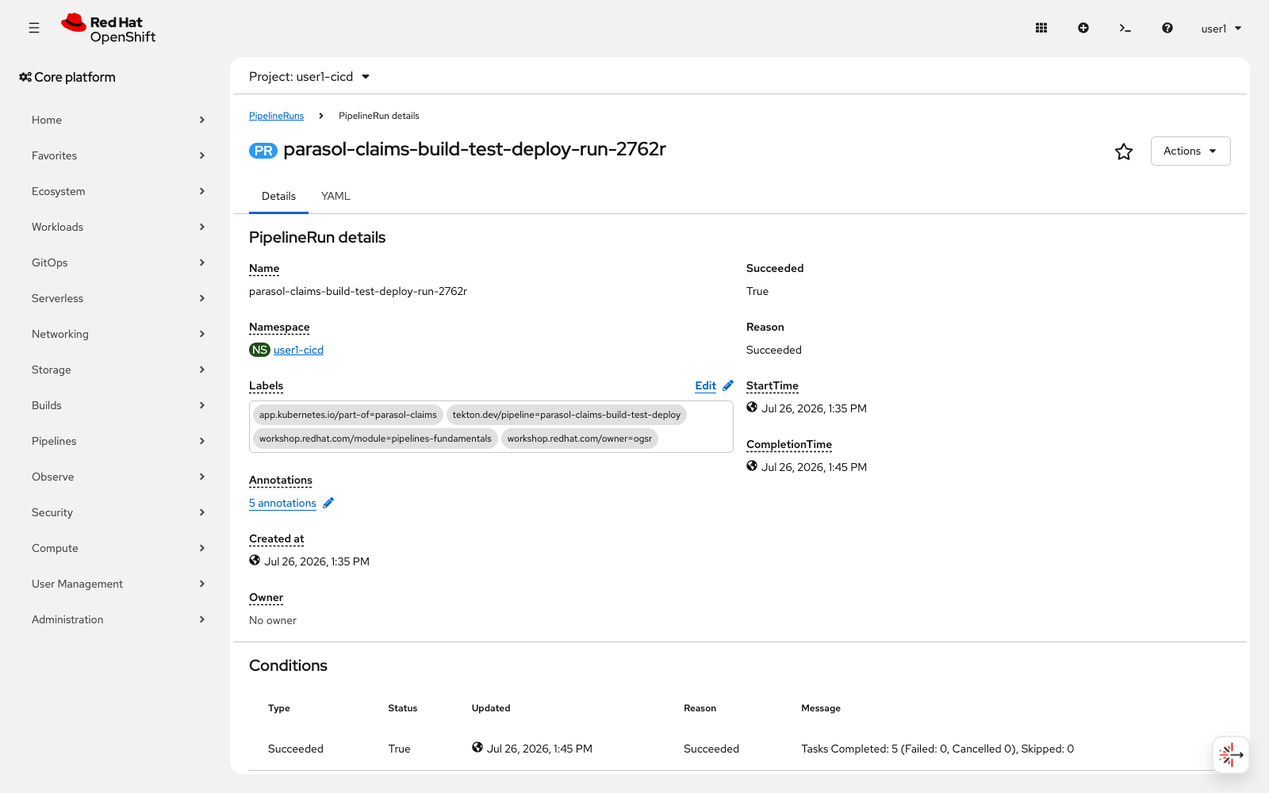
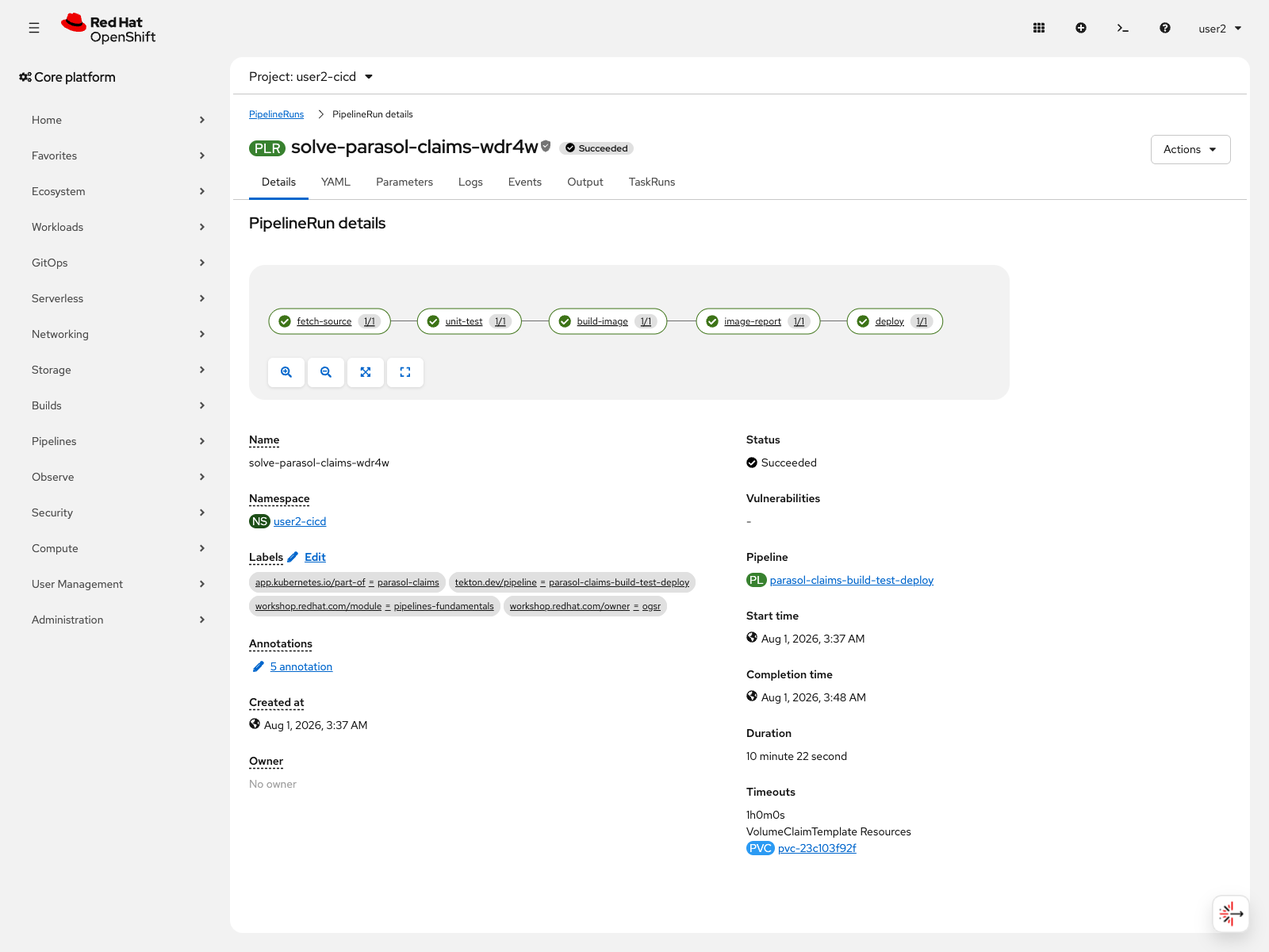
feat(m07,m17,m18,m15): nine more screenshots, embedded and rendering
m07 shot as user2 per the owner's call — user2-cicd already held a green five-Task PipelineRun, so
user1-cicd was left alone rather than rebuilt (it carries trusted-supply-chain, whose own marquee row
is still uncaptured; rebuilding would have destroyed an uncaptured subject to photograph a captured
one).

The rest are the m14-m19 console set, unblocked by the three logins the owner established this
morning: registry-images-catalog-governance 4, deployment-targets-scheduling 3, networking-dev-devops
2.

Verified in the BUILT SITE rather than the source, which is the only place the failure mode shows:
pipelines-fundamentals 5 img, registry-images-catalog-governance 4, deployment-targets-scheduling 3,
networking-dev-devops 2 — and every src resolves to a file that exists on disk. Antora exits 0.

The one page still emitting an image:: as literal text is agentic-ai, which is pre-existing and
belongs to another lane: line 149 uses a `+` list-continuation where a blank line is required, so the
macro source lands inside a <p> with no <img> at all and the build stays green. Its alt text is also
unquoted and comma-bearing, so it will truncate even once the continuation is fixed.

diff --git a/tools/media/capture_m17_pods_by_node.py b/tools/media/capture_m17_pods_by_node.py
@@ -1,0 +1,191 @@
+"""M17 (deployment-targets-scheduling) shot 01 — the Pods list WITH a Node column.
+
+WHY THIS EXISTS, and why it is not a row in jobs-m14-m19-console.yaml.
+
+The row was a job. It failed on 2026-08-01 with `never saw 'Node'`, against a namespace that was
+in exactly the right state — three `parasol-claims` replicas on three different nodes, proven from
+the API. The state was never the problem. **The console's Pods list has no Node column at all by
+default.** Grounded the same day at 1600x1100 as user7: the default columns are Name, Status,
+Ready, Restarts, Owner, Memory, CPU, Created — and nothing else. `deployment-targets-scheduling`'s
+own `[CAPTURE-VERIFY]` marker at lab.adoc:168/:176 had already suspected this; this run settles it.
+
+Adding the column is a three-step interaction — open *Column management*, tick **Node**, *Save* —
+and `capture.py` deliberately cannot express it: `click_text` clicks controls that HAVE text (the
+column-management control is an icon button), `check_text` ticks a checkbox but runs before any
+click could have opened the dialog it lives in, and there is no post-tick click at all. Rather than
+grow the generic harness a bespoke three-step sequencer for one shot, this follows the pattern the
+directory already established for interactions a jobs file cannot describe (see
+`capture_m12_sequence.py`, `capture_m11_canary.py`).
+
+The control is addressed by `button[data-test="manage-columns"]` (aria-label "Column management"),
+enumerated from the live DOM on 2026-08-01 — not recalled, and not guessed from a class name.
+
+ONE SIDE EFFECT, AND IT IS THE LAB'S OWN. Console column choices persist per user (they are stored
+in that user's console user-settings), so after this runs, that attendee slot keeps the Node column
+on its Pods list. That is precisely what the lab's exercise 1 tells the attendee to do, so the
+end state matches the page rather than contradicting it. Nothing else here mutates anything: the
+cluster is only ever read.
+
+    KUBECONFIG=~/.kube/<cluster>.config tools/media/.venv/bin/python \
+      tools/media/capture_m17_pods_by_node.py \
+        --domain apps.cluster-<id>.<base> --profile tools/media/shot-profile-user7 --user user7
+"""
+
+from __future__ import annotations
+
+import argparse
+import os
+import sys
+from pathlib import Path
+
+from playwright.sync_api import Error as PWError
+from playwright.sync_api import sync_playwright
+
+HERE = Path(__file__).resolve().parent
+sys.path.insert(0, str(HERE))
+
+# Reuse, never re-implement: the overlay dismissal and the session cache are the two things that
+# have silently ruined captures on this project, and there must be exactly one copy of each.
+import capture as cap  # noqa: E402
+
+VIEWPORT = {"width": 1600, "height": 1100}
+
+
+def main() -> int:
+    ap = argparse.ArgumentParser(description=__doc__)
+    ap.add_argument("--profile", required=True, type=Path)
+    ap.add_argument("--user", default="user7")
+    ap.add_argument("--domain", default=os.environ.get("OGSR_DOMAIN", ""))
+    ap.add_argument("--out-root", type=Path, default=cap.ASSETS)
+    args = ap.parse_args()
+    if not args.domain:
+        return err("set --domain or $OGSR_DOMAIN")
+
+    slug = "deployment-targets-scheduling"
+    out = args.out_root / slug / f"{slug}-01-pods-by-node.png"
+    if out.exists():
+        # Same clobber guard as capture.py, and for the same reason: these shots are
+        # state-dependent, so a re-run does not reproduce the picture, it replaces it with
+        # whatever the lab looks like now. Delete the file deliberately to re-shoot.
+        return err(f"{out} already exists — delete it deliberately to re-shoot")
+
+    url = (f"https://console-openshift-console.{args.domain}"
+           f"/k8s/ns/{args.user}-dev/pods")
+
+    with sync_playwright() as p:
+        ctx = p.chromium.launch_persistent_context(
+            str(args.profile), channel="chrome", headless=True, viewport=VIEWPORT,
+            ignore_https_errors=True, locale="en-US",
+            args=["--no-first-run", "--no-default-browser-check"],
+        )
+        sess = cap.session_file(args.profile)
+        n = cap.load_session(ctx, sess)
+        print(f"  restored {n} cached cookies")
+        page = ctx.pages[0] if ctx.pages else ctx.new_page()
+        try:
+            page.goto(url, wait_until="domcontentloaded", timeout=60_000)
+            page.wait_for_timeout(2000)
+            cap.dismiss_overlays(page)
+
+            who = cap.console_identity(page)
+            if who != args.user:
+                # The single most expensive failure this directory has: a dead or wrong session
+                # writes a perfectly valid PNG of a login chooser or someone else's namespace, and
+                # the run reports success. Ask the API who this is before spending anything else.
+                return err(f"session is {who!r}, not {args.user!r} — refusing to shoot")
+
+            page.wait_for_function(
+                "() => !!document.body && document.body.innerText.includes('parasol-claims')",
+                timeout=60_000)
+
+            # --- the three steps a jobs file cannot express -------------------------------
+            page.click('button[data-test="manage-columns"]', timeout=15_000)
+            page.wait_for_selector('[role="dialog"]', timeout=15_000)
+            page.wait_for_timeout(800)
+
+            # Exact label match, not a substring: the dialog lists every available column and
+            # several contain "Node" inside longer words in other resource types. `check()` is
+            # idempotent — it is a no-op if the box is already ticked, which matters because the
+            # preference persists and this may not be the first run against this profile.
+            box = page.get_by_role("checkbox", name="Node", exact=True)
+            box.check(timeout=15_000)
+
+            save = page.get_by_role("button", name="Save", exact=True)
+            save.click(timeout=15_000)
+            page.wait_for_selector('[role="dialog"]', state="detached", timeout=15_000)
+
+            # Prove the column ARRIVED, in the table, before shooting. "I clicked Save" is not the
+            # same claim as "the table has a Node column", and only the second one protects the
+            # shot — the same distinction dismiss_overlays() draws.
+            #
+            # `includes`, not `===`: a header cell is not just its label. Measured 2026-08-01 — an
+            # exact match timed out for 30s on a table that was visibly showing the column, because
+            # each `th` also contains a sort control and a resize handle, so its innerText carries
+            # more than the word. No other Pods column name contains "Node", so this stays specific.
+            try:
+                page.wait_for_function(
+                    """() => [...document.querySelectorAll('th')]
+                            .some(t => (t.innerText || '').includes('Node'))""",
+                    timeout=30_000)
+            except PWError:
+                heads = page.evaluate(
+                    "() => [...document.querySelectorAll('th')].map(t => (t.innerText||'').trim())")
+                return err(f"no Node column after Save — headers are {heads}")
+            page.wait_for_timeout(3000)
+
+            left = cap.dismiss_overlays(page)
+            if left:
+                return err("console overlay still covering the page: " + ", ".join(left))
+
+            body = page.evaluate("() => document.body.innerText")
+            for bad in ("Access restricted", "An error occurred", "Log in with"):
+                if bad in body:
+                    return err(f"page shows {bad!r} — refusing to shoot a broken view")
+
+            # The caption promises DIFFERENT values in the Node column. Assert the spread from the
+            # rendered table itself, not from the API: the API being right is what got the failed
+            # job to this point in the first place.
+            nodes = page.evaluate(
+                """() => {
+                    const ths = [...document.querySelectorAll('th')];
+                    // Same `includes` as the wait above, and for the same measured reason: a `th`
+                    // carries its sort and resize controls too, so an exact match finds nothing and
+                    // this silently returns an empty column.
+                    const i = ths.findIndex(t => (t.innerText || '').includes('Node'));
+                    if (i < 0) return [];
+                    return [...document.querySelectorAll('tbody tr')].map(r => {
+                        const c = r.children[i];
+                        return c ? (c.innerText || '').trim() : '';
+                    }).filter(Boolean);
+                }""")
+            distinct = sorted(set(nodes))
+            print(f"  Node column values: {nodes}")
+            if len(distinct) < 2:
+                return err(f"Node column shows {len(distinct)} distinct node(s) — the shot is "
+                           f"supposed to show pods SPREAD across nodes")
+
+            misses = [(t, why) for t, why in
+                      page.evaluate(cap._IN_FRAME,  # noqa: SLF001 - one harness, one definition
+                                    {"needles": ["Node", "parasol-claims", "statement-batch"],
+                                     "full": False}) if why]
+            if misses:
+                return err("not in frame: " + "; ".join(f"{t!r} {why}" for t, why in misses))
+
+            out.parent.mkdir(parents=True, exist_ok=True)
+            page.screenshot(path=str(out))
+            print(f"OK   {slug}/{out.name}  [{out.stat().st_size // 1024} KB]")
+        except PWError as exc:
+            return err(f"{type(exc).__name__}: {str(exc).splitlines()[0][:200]}")
+        finally:
+            cap.save_session(ctx, sess)
+            ctx.close()
+    return 0
+
+
+def err(msg: str) -> int:
+    print(f"FAIL {msg}")
+    return 1
+
+
+if __name__ == "__main__":
+    raise SystemExit(main())

diff --git a/content/modules/ROOT/assets/images/pipelines-fundamentals/media-manifest.md b/content/modules/ROOT/assets/images/pipelines-fundamentals/media-manifest.md
@@ -16,6 +16,13 @@ screenshot (#2), which is a Gitea UI view, not a console one.
 Update 2026-07-28: the PipelineRun graph shot (#1) was un-embedded from lab.adoc — it was
 captured before the Tekton console plugin mounted, so it shows only the Details/YAML tabs
 with no five-Task graph. See its `❌ RE-CAPTURE` row below.
+Update 2026-08-01: #1 re-shot and re-embedded, so every console row in this module is now
+captured except the Gitea webhook form (#2), which needs a human. The re-shoot was taken as
+**user2**, not user1 — an owner decision, and the reason is worth keeping: `user1-cicd` was
+holding `trusted-supply-chain`'s signed ImageStream while that module's own row 1 was still
+uncaptured, and the two modules evict each other, so shooting here as user1 would have
+destroyed an unshot state for cosmetic consistency. This frame therefore reads `user2-cicd`
+beside four neighbours reading `user1-cicd`. Do not "fix" that by rebuilding user1.
 
 Media note: the module's pipeline mechanics — the anatomy run (12m54s, image 391 MB), the
 task-library resolver refs, the break-fix RED/GREEN, and the live PaC git-push fire — were all
@@ -29,7 +36,7 @@ the build was CLI-driven).
 
 | # | Filename | Status | View | Notice | Embed point |
 |---|----------|--------|------|--------|-------------|
-| 1 | `pipelines-fundamentals-01-pipelinerun-graph.png` | ❌ RE-CAPTURE — **the cause is gone; only the login is missing** (2026-08-01). The reason this shot lacked its graph was that the Tekton console plugin had not mounted. It is mounted on the current cluster — `oc get consoles.operator.openshift.io cluster -o jsonpath='{.spec.plugins}'` lists `pipelines-console-plugin` — so the five-Task DAG will render. `tools/media/jobs-first-block.yaml` carries the job (the file's only `reshoot: true`, sanctioned by this row). **The run is already built:** `ws solve pipelines-fundamentals --user user2` was run on 2026-08-01 and produced a green `solve-parasol-claims-…` (10m, all five Tasks Succeeded), so the login window does not have to spend the first quarter-hour rebuilding it — `tools/media/stage-pipelines-fundamentals.sh` checks for a PipelineRun whose `Succeeded` condition is True and **reuses it**, only running `ws start`+`ws solve` when there is none (verified: it printed "reusing the green run already in user2-cicd"). That skip also protects the namespace, because `ws start pipelines-fundamentals` purges `{user}-cicd` and evicts `trusted-supply-chain`/`app-security-testing`. `url_sh` resolves the newest **Succeeded** run — not merely the newest, which could be a failed or still-running one — and the wait names **all five Task names** rather than the run — a page without the plugin still renders the run name and its Details/YAML tabs, which is exactly how the pulled shot passed review the first time. Blocked only on one human OAuth hop (cached console session answers HTTP 401; the password-free cockpit does not carry a console session). Two notes for whoever shoots it. (a) `ws solve` produces a **finished** run, so if the graph lands green, `lab.adoc`'s alt text — written for a *running* run with "per-node step counters filling in" — must be adjusted to match the frame, rather than the frame described as something it is not. (b) The job targets **`user2`** because that was the capture lane's assigned slot; this module's other four screenshots are all `user1`, so repoint it at `user1` if that slot is free when you run it, and the set stays visually consistent. | **Pipelines → PipelineRuns → (your run)** — the 5-Task graph (fetch-source → unit-test → build-image → image-report → deploy) | the visual DAG; a green run; the `image-within-budget` result in the details pane (RE-CAPTURE: captured before the Tekton console plugin mounted — only the Details and YAML tabs rendered and the 5-task graph is entirely missing.) | lab.adoc ex. 1 / challenge (console view of the run) |
+| 1 | `pipelines-fundamentals-01-pipelinerun-graph.png` | ✅ CAPTURED 2026-08-01 (replaces the 2026-07-26 asset) — shot as **user2** in `user2-cicd`, against a green `solve-parasol-claims-wdr4w`. Verified by eye, not by the run log: the five-Task DAG renders, every node green-ticked at `1/1`, the run badged **Succeeded**, duration 10m22s, and the full tab row Details / YAML / Parameters / Logs / Events / Output / TaskRuns is present — which is what proves `pipelines-console-plugin` mounted this time. **The caption changed with the frame.** `ws solve` produces a *finished* run, so the alt text written for a *running* one ("per-node step counters filling in") would have described something the picture does not show; it now describes the finished graph and tells the attendee that an unstarted Task reads `0/1`. The old caption's "Conditions table reporting Tasks Completed" was dropped outright: this console's PipelineRun Details page has no such table — the right-hand column carries Status, Vulnerabilities, Pipeline, Start/Completion time, Duration and Timeouts. Job: `tools/media/jobs-pipelines-fundamentals.yaml` (its only `reshoot: true`; **take that flag off now the good shot is on disk**). Note `tools/media/jobs-first-block.yaml` carries a second, user1-pointed copy of this same job, also flagged `reshoot: true` — running it would rebuild `user1-cicd` and clobber this frame. | **Pipelines → PipelineRuns → (your run)** — the 5-Task graph (fetch-source → unit-test → build-image → image-report → deploy) | the visual DAG; a green run; the tab row that only the Tekton console plugin draws | lab.adoc ex. 1, after the Console/CLI log-streaming tabs |
 | 2 | `pipelines-fundamentals-02-gitea-webhook.png` | ⬜ NOT CAPTURED — **refused, 2026-08-01, and it will not resolve on its own.** Two independent blockers: the form has no addressable pre-filled state (a person types the target URL, the content type and the secret into it, and `capture.py` has no generic form-fill — only `filter_text`, which types into a list filter), and Gitea keeps its **own local login** that a console session does not carry, which this capture path cannot complete because it must not type a login password anywhere. Same conclusion as `RUNBOOK.md`'s not-capturable table; parked with this reason in `tools/media/jobs-first-block.yaml`. The lab spells the four fields out in prose, which is what an attendee actually follows. | **Gitea → fork → Settings → Webhooks → Add Webhook (Gitea type)** | Target URL = the `pipelines-as-code-controller` route; POST Content Type `application/json`; the secret filled in; **Push Events** selected | lab.adoc ex. 4 (`// media-pass:` marker after "Add Webhook") |
 | 3 | `pipelines-fundamentals-03-pipelinerun-failed.png` | ✅ CAPTURED 2026-07-26 | **Pipelines → PipelineRuns** — the RED break-fix run: `unit-test` failed, `build-image`/`image-report`/`deploy` **Skipped** | the failed `unit-test` node and the three *Skipped* downstream nodes — the gate, visually | lab.adoc ex. 3 (optional; the log message is the load-bearing artifact and is shown inline) |
 | 4 | `pipelines-fundamentals-04-pipelinerun-results.png` | ✅ CAPTURED 2026-07-26 | **Pipelines → PipelineRuns → your run → Output tab** — not the Details tab | a "PipelineRun results" table: `image-size-mb` 391, `image-within-budget` true, run badged **Succeeded** | lab.adoc ex. 1 (after the Console/CLI results check) |

diff --git a/content/modules/ROOT/assets/images/registry-images-catalog-governance/media-manifest.md b/content/modules/ROOT/assets/images/registry-images-catalog-governance/media-manifest.md
@@ -54,10 +54,10 @@ it on a disposable cluster, never a shared workshop cluster mid-session.**
 
 | # | Filename | View | Annotate | Embed point |
 |---|----------|------|----------|-------------|
-| 1 | `registry-images-catalog-governance-01-imagestream-detail.png` | 🟡 READY TO SHOOT 2026-08-01 (entry state alone; proved on user7 — `1.0` resolves to an immutable digest). Console → Builds → ImageStreams → `parasol-claims` (project `{user}-dev`), the tag + `sha256` visible | Circle: the `1.0` tag and its resolved `sha256` digest | lab.adoc ex. 1 Console tab |
-| 2 | `registry-images-catalog-governance-02-imagestream-two-tags.png` | 🟡 READY TO SHOOT 2026-08-01 (`stage-m18-registry.sh` runs the promote and *asserts the two digests are identical* before the shot). Console → Builds → ImageStreams → `parasol-claims` after the promote, showing `1.0` **and** `prod` | Circle: both tags pointing at the same `sha256` | lab.adoc ex. 2 Console tab |
-| 3 | `registry-images-catalog-governance-03-developer-catalog-template.png` | 🟡 READY TO SHOOT 2026-08-01 (`stage-m18-registry.sh` applies the namespaced Template and asserts it exists). Still unverified: that `?catalogType=Template` pre-applies the filter — the tile is on the page either way, so check the image. Console → **Ecosystem → Software Catalog** filtered to *Template*, the **Parasol Claims Quickstart** tile | Circle: the custom tile (present only in `{user}-dev`) | lab.adoc ex. 5 Console tab |
-| 4 | `registry-images-catalog-governance-04-cluster-image-config.png` | 🟡 READY TO SHOOT 2026-08-01. Attendee readability proved by the *real read* as `user7`, not by `oc auth can-i` (which lies about cluster-scoped resources). **Retargeted to the YAML tab**: the caption's point is that `allowedRegistriesForImport` is *empty*, and an unset field is not rendered anywhere — this cluster's literal `spec: {}` is what proves it. Console → Administration → Cluster Settings → Configuration → **Image** → YAML | Circle: `allowedRegistriesForImport` (empty = open) | lab.adoc ex. 6 (governance read) |
+| 1 | `registry-images-catalog-governance-01-imagestream-detail.png` | ✅ CAPTURED 2026-08-01 as **user7** in `user7-dev`, verified by opening the PNG. Frame shows Image count 1 and a one-row Tags table: `parasol-claims:1.0`, its From reference, and the resolved `sha256:ca759845…`. The whole Tags table is inside the frame at 1600x1200 with no scrolling needed — that is only true while the stream has ONE tag; see row 2 for what happened when a second one arrived. | Circle: the `1.0` tag and its resolved `sha256` digest | lab.adoc ex. 1 Console tab |
+| 2 | `registry-images-catalog-governance-02-imagestream-two-tags.png` | ✅ CAPTURED 2026-08-01 as **user7**, on the SECOND attempt, and the first attempt is the lesson. The run reported `OK 112 KB` and every gate passed — including `require_in_frame: [prod]` — but the `prod` row was SLICED by the bottom edge: its name read `parasol-` and its digest was cut mid-string, so the two-identical-digests comparison this row exists for was unreadable. `require_in_frame` measures where a box STARTS, not that the box is whole, so a row straddling the edge passes it. Fixed with `scroll_to_text: "Tags"` in the job, which centres the section and puts both rows fully in the picture. The good frame shows Image count 2, `parasol-claims:1.0` and `parasol-claims:prod`, both Identifier cells reading `sha256:ca759845d26c3d92402269100f9e16accbfa0fe951e54e9afd4df7ee9012dc80`. | Circle: both tags pointing at the same `sha256` | lab.adoc ex. 2 Console tab |
+| 3 | `registry-images-catalog-governance-03-developer-catalog-template.png` | ✅ CAPTURED 2026-08-01 as **user7**, and it GROUNDS the type-filter question this row was unsure about: `?catalogType=Template` really does pre-apply the filter — the breadcrumb reads *Software Catalog → Templates* and the page is headed **Templates**, with a left rail of All items / CI/CD / Database / Databases / Languages / Middleware / Other. Filtered to `Parasol`, it returns **2 items**: *Parasol Claims Quickstart* and *Parasol PostgreSQL (ephemeral)*, both badged Templates and *Provided by Parasol Insurance*. Worth knowing before an attendee asks why they see two — the lab's prose names only the Quickstart. | Circle: the custom tile (present only in `{user}-dev`) | lab.adoc ex. 5 Console tab |
+| 4 | `registry-images-catalog-governance-04-cluster-image-config.png` | ✅ CAPTURED 2026-08-01 as **user7**, on the THIRD attempt, and both failures are worth keeping. (1) The first frame passed every gate and was still wrong: the console renders this object WITH its `managedFields`, which mentions nearly every real field name as `'f:<name>'`, so the wait on `internalRegistryHostname` and `require_in_frame` (which matches the FIRST text node with `includes()`) both landed on a managedFields line at line 33 — a valid 154 KB PNG of apiVersion, kind and a screenful of managedFields, with the subject below the fold. Assertions now name VALUES (`Legacy`, the registry hostname), which managedFields never carries. (2) The second attempt then timed out on `Legacy` against a healthy page: the YAML editor is CodeMirror and renders only the lines near its own viewport, so at height 1100 the document stopped at line ~33 and `status:` was not in the DOM to be waited on OR scrolled to. Raising the browser viewport to 1600 makes the editor pane taller, which makes CodeMirror render all 50 lines. Also grounded on the way past: the **Details tab is useless for this row** — it carries only Name / Labels / Annotations / Created at / Owner, no registry fields at all. The good frame shows the whole object: `spec: {}` at line 46, then `status:` with `imageStreamImportMode: Legacy` and `internalRegistryHostname: image-registry.openshift-image-registry.svc:5000`. | Circle: `allowedRegistriesForImport` (empty = open) | lab.adoc ex. 6 (governance read) |
 
 **Animated gif (PREFERRED for the promote-by-digest story):**
 `registry-images-catalog-governance-05-promote-by-digest.gif` (<20 s, silent) — quick cuts:

diff --git a/content/modules/ROOT/assets/images/deployment-targets-scheduling/media-manifest.md b/content/modules/ROOT/assets/images/deployment-targets-scheduling/media-manifest.md
@@ -53,10 +53,10 @@ placement is the whole visual. The `sleep 10` after the `nodeSelector` patch is 
 
 | # | Filename | View | Annotate | Embed point |
 |---|----------|------|----------|-------------|
-| 1 | `deployment-targets-scheduling-01-pods-by-node.png` | 🟡 READY TO SHOOT 2026-08-01 (entry state alone; proved on user7 — six pods scattered across nodes). Console → Workloads → Pods (project `{user}-dev`), the **Node** column visible | Circle: the scattered Node values — two `parasol-claims` on different nodes, `statement-batch` on a general node | lab.adoc ex. 1 Console tab |
-| 2 | `deployment-targets-scheduling-02-edit-deployment-affinity.png` | 🟡 READY TO SHOOT 2026-08-01 (`stage-m17-scheduling.sh` applies the rule and proves it by checking the three replicas landed on three *distinct* nodes). Shot via the Deployment's own YAML tab — no Actions hop needed. Console → Workloads → Deployments → `parasol-claims` → YAML, `affinity.podAntiAffinity` in view | Circle: `requiredDuringSchedulingIgnoredDuringExecution` + `topologyKey: kubernetes.io/hostname` | lab.adoc ex. 2 Console tab |
+| 1 | `deployment-targets-scheduling-01-pods-by-node.png` | ✅ CAPTURED 2026-08-01 as **user7**, but NOT by a jobs row — by `tools/media/capture_m17_pods_by_node.py`, and the reason is a finding this module's own `[CAPTURE-VERIFY]` markers at lab.adoc:168/:176 were asking about. **The console's Pods list has no Node column at all by default.** Grounded: the defaults are Name, Status, Ready, Restarts, Owner, Memory, CPU, Created. The job version of this row failed with `never saw 'Node'` against a namespace that was in exactly the right state — the state was never the problem. Adding the column is three interactions (icon-only *Column management* → tick **Node** → *Save*) and `capture.py` can express none of them, so the shot follows the directory's existing bespoke-script pattern. The script asserts the spread from the RENDERED table, not the API. Two things to know: the column preference PERSISTS for that attendee slot (which is what the lab tells them to do anyway), and the frame shows **three** parasol-claims replicas because it was taken after the anti-affinity staging scaled up — the alt text says so out loud rather than letting the picture contradict the prose's *two*. | Circle: the scattered Node values — two `parasol-claims` on different nodes, `statement-batch` on a general node | lab.adoc ex. 1 Console tab |
+| 2 | `deployment-targets-scheduling-02-edit-deployment-affinity.png` | ✅ CAPTURED 2026-08-01 as **user7**, at viewport height **2400**, and the height is the whole story. At 1100 the job failed with `never saw 'podAntiAffinity'` against a Deployment that provably carried the rule. The console's YAML editor VIRTUALIZES — only lines near its own viewport are in the DOM — so the block did not exist to be waited on, and `scroll_to_text` could not have rescued it either (it searches the DOM too). Binary-searched with the page open: 1100 no, 1800 no, 2000 no, 2200 no, 2400 yes. The frame is worth the height: the console folds `managedFields` into one line, so the document runs 1-14 then jumps to 170, and the entire workload spec — resources, both probes, env, the affinity block at 235-241, strategy — lands in a single picture. | Circle: `requiredDuringSchedulingIgnoredDuringExecution` + `topologyKey: kubernetes.io/hostname` | lab.adoc ex. 2 Console tab |
 | 3 | `deployment-targets-scheduling-03-batch-pending.png` | ⛔ NOT CAPTURABLE on a sub-floor cluster (2026-08-01) — needs the batch-pool node to carry the `NoSchedule` taint, which bootstrap applies only at 3+ workers. the capture cluster had 2 real workers, so the pool is labelled and deliberately untainted, the nodeSelector-only patch schedules cleanly, and there is no Pending pod to photograph. Not a content bug — the lab's own IMPORTANT block says so. Shoot on a 3+-worker cluster. Console → Workloads → Pods → the `statement-batch` pod `Pending`, its Events showing the untolerated-taint `FailedScheduling` | Circle: the `FailedScheduling` event text "untolerated taint" | lab.adoc ex. 4 Console tab |
-| 4 | `deployment-targets-scheduling-04-pdb-allowed-disruptions.png` | 🟡 READY TO SHOOT 2026-08-01. Two corrections: the console column is sentence-case **Allowed disruptions** (bundle-grounded; `ALLOWED DISRUPTIONS` is the CLI's), and the shot needs **three** healthy replicas or it renders 1 and contradicts the lab (`stage-m17-scheduling.sh` scales first, then polls `status.disruptionsAllowed` until it reads 2). Console → Workloads → PodDisruptionBudgets → `parasol-claims`, the **Allowed disruptions** column = 2 | Circle: `ALLOWED DISRUPTIONS = 2` (3 healthy − minAvailable 1) | lab.adoc ex. 5 Console tab |
+| 4 | `deployment-targets-scheduling-04-pdb-allowed-disruptions.png` | ✅ CAPTURED 2026-08-01 as **user7**. Both of this row's corrections held up in the frame: the column really is sentence-case **Allowed disruptions** (the CLI's upper-case form is not on the page), and it really does read **2** — `stage-m17-scheduling.sh` scales to three healthy replicas and polls `status.disruptionsAllowed` until it settles, so the picture agrees with the expected output printed directly above it. Also in frame: Selector `app=parasol-claims` and Availability `Min available 1`, which together explain the 2 without a caption. | Circle: `ALLOWED DISRUPTIONS = 2` (3 healthy − minAvailable 1) | lab.adoc ex. 5 Console tab |
 
 **Animated gif (PREFERRED for the break-and-fix story):**
 `deployment-targets-scheduling-05-pin-to-pool.gif` (<30 s, silent) — quick cuts:

diff --git a/content/modules/ROOT/assets/images/networking-dev-devops/media-manifest.md b/content/modules/ROOT/assets/images/networking-dev-devops/media-manifest.md
@@ -54,9 +54,9 @@ don't cut them short in the edit.
 
 | # | Filename | View | Annotate | Embed point |
 |---|----------|------|----------|-------------|
-| 1 | `networking-dev-devops-01-services-clusterip.png` | 🟡 READY TO SHOOT 2026-08-01 (entry state alone; proved on user7 — exactly three ClusterIP Services, no external address). Console → Networking → Services (project `{user}-dev`), the three tiers all `ClusterIP` | Circle: the `Type = ClusterIP` column + empty external address | lab.adoc ex. 1 Console tab |
+| 1 | `networking-dev-devops-01-services-clusterip.png` | ✅ CAPTURED 2026-08-01 as **user7**, after the first attempt failed with `never saw 'ClusterIP'` against three Services that are all ClusterIP. **The Services list has no Type column** — Name, Labels, Pod selector, Location, and no column-management control on this toolbar to add one. The lab's own console-path comment at lab.adoc:196 had grounded that in July and its prose already points at *Location*; only the job assertion and this row's `// media-pass:` caption were still repeating the older claim, and both now say *Location*. The frame carries the teaching point regardless: one internal 172.x address and port per Service, and no external address anywhere on the page. | Circle: the `Type = ClusterIP` column + empty external address | lab.adoc ex. 1 Console tab |
 | 2 | `networking-dev-devops-02-create-edge-route.png` | ⛔ PARKED 2026-08-01 — needs a human: three PatternFly dropdowns plus a checkbox, no pre-fillable deep link. Console → Networking → Routes → Create Route form (Service `parasol-web`, Secure, Edge, Insecure=Allow) | Circle: TLS termination = Edge, Insecure traffic = Allow | lab.adoc ex. 2 Console tab |
-| 3 | `networking-dev-devops-03-networkpolicy-yaml.png` | 🟡 READY TO SHOOT 2026-08-01, **RETARGETED**: the *Create* editor with a manifest pasted-but-not-created only exists while a human types, so the job shoots the created object's own YAML tab, which renders both circled lines. Console → Networking → NetworkPolicies → `default-deny-all` → YAML | Circle: empty `podSelector: {}` + `policyTypes: [Ingress, Egress]` | lab.adoc ex. 3 Console tab |
+| 3 | `networking-dev-devops-03-networkpolicy-yaml.png` | ✅ CAPTURED 2026-08-01 as **user7**, after a failure worth recording because the error message actively misleads. `require_in_frame: [policyTypes, podSelector]` reported *below/outside the fold: box is 571..589px, the frame is 1600x1100* — a box that is obviously inside 1100px vertically. The check also fails on `r.right > W` and prints only the vertical extent. Both words' first occurrence in document order is inside the `last-applied-configuration` annotation, one ~500-character line running far past the right edge, and `require_in_frame` takes the FIRST matching text node. Probed each candidate live: `Ingress`, `Egress` and `default-deny-all` resolve to narrow in-frame nodes and are now the in-frame assertion, while the spec lines stay asserted by `wait_all_text`, which reads innerText and does not care how wide anything is. Good frame: `podSelector: {}` at line 27, `policyTypes` with `- Ingress` and `- Egress` at 28-30. | Circle: empty `podSelector: {}` + `policyTypes: [Ingress, Egress]` | lab.adoc ex. 3 Console tab |
 | 4 | `networking-dev-devops-04-pod-terminal-blocked.png` | ⛔ PARKED 2026-08-01 — the console Terminal is an xterm.js canvas: the harness can neither type into it nor assert on it (no innerText). Prefer the deny-then-allow GIF below. Console → Workloads → Pods → a `demo-client` pod → Terminal, the `</dev/tcp/claims-db/5432>` probe hanging/timing out | Circle: the command timing out (no `OPEN`) vs a `parasol-claims` pod terminal that prints `OPEN` | lab.adoc ex. 4 Console tab |
 
 **Animated gif (PREFERRED for the multi-step default-deny→allow story):**
